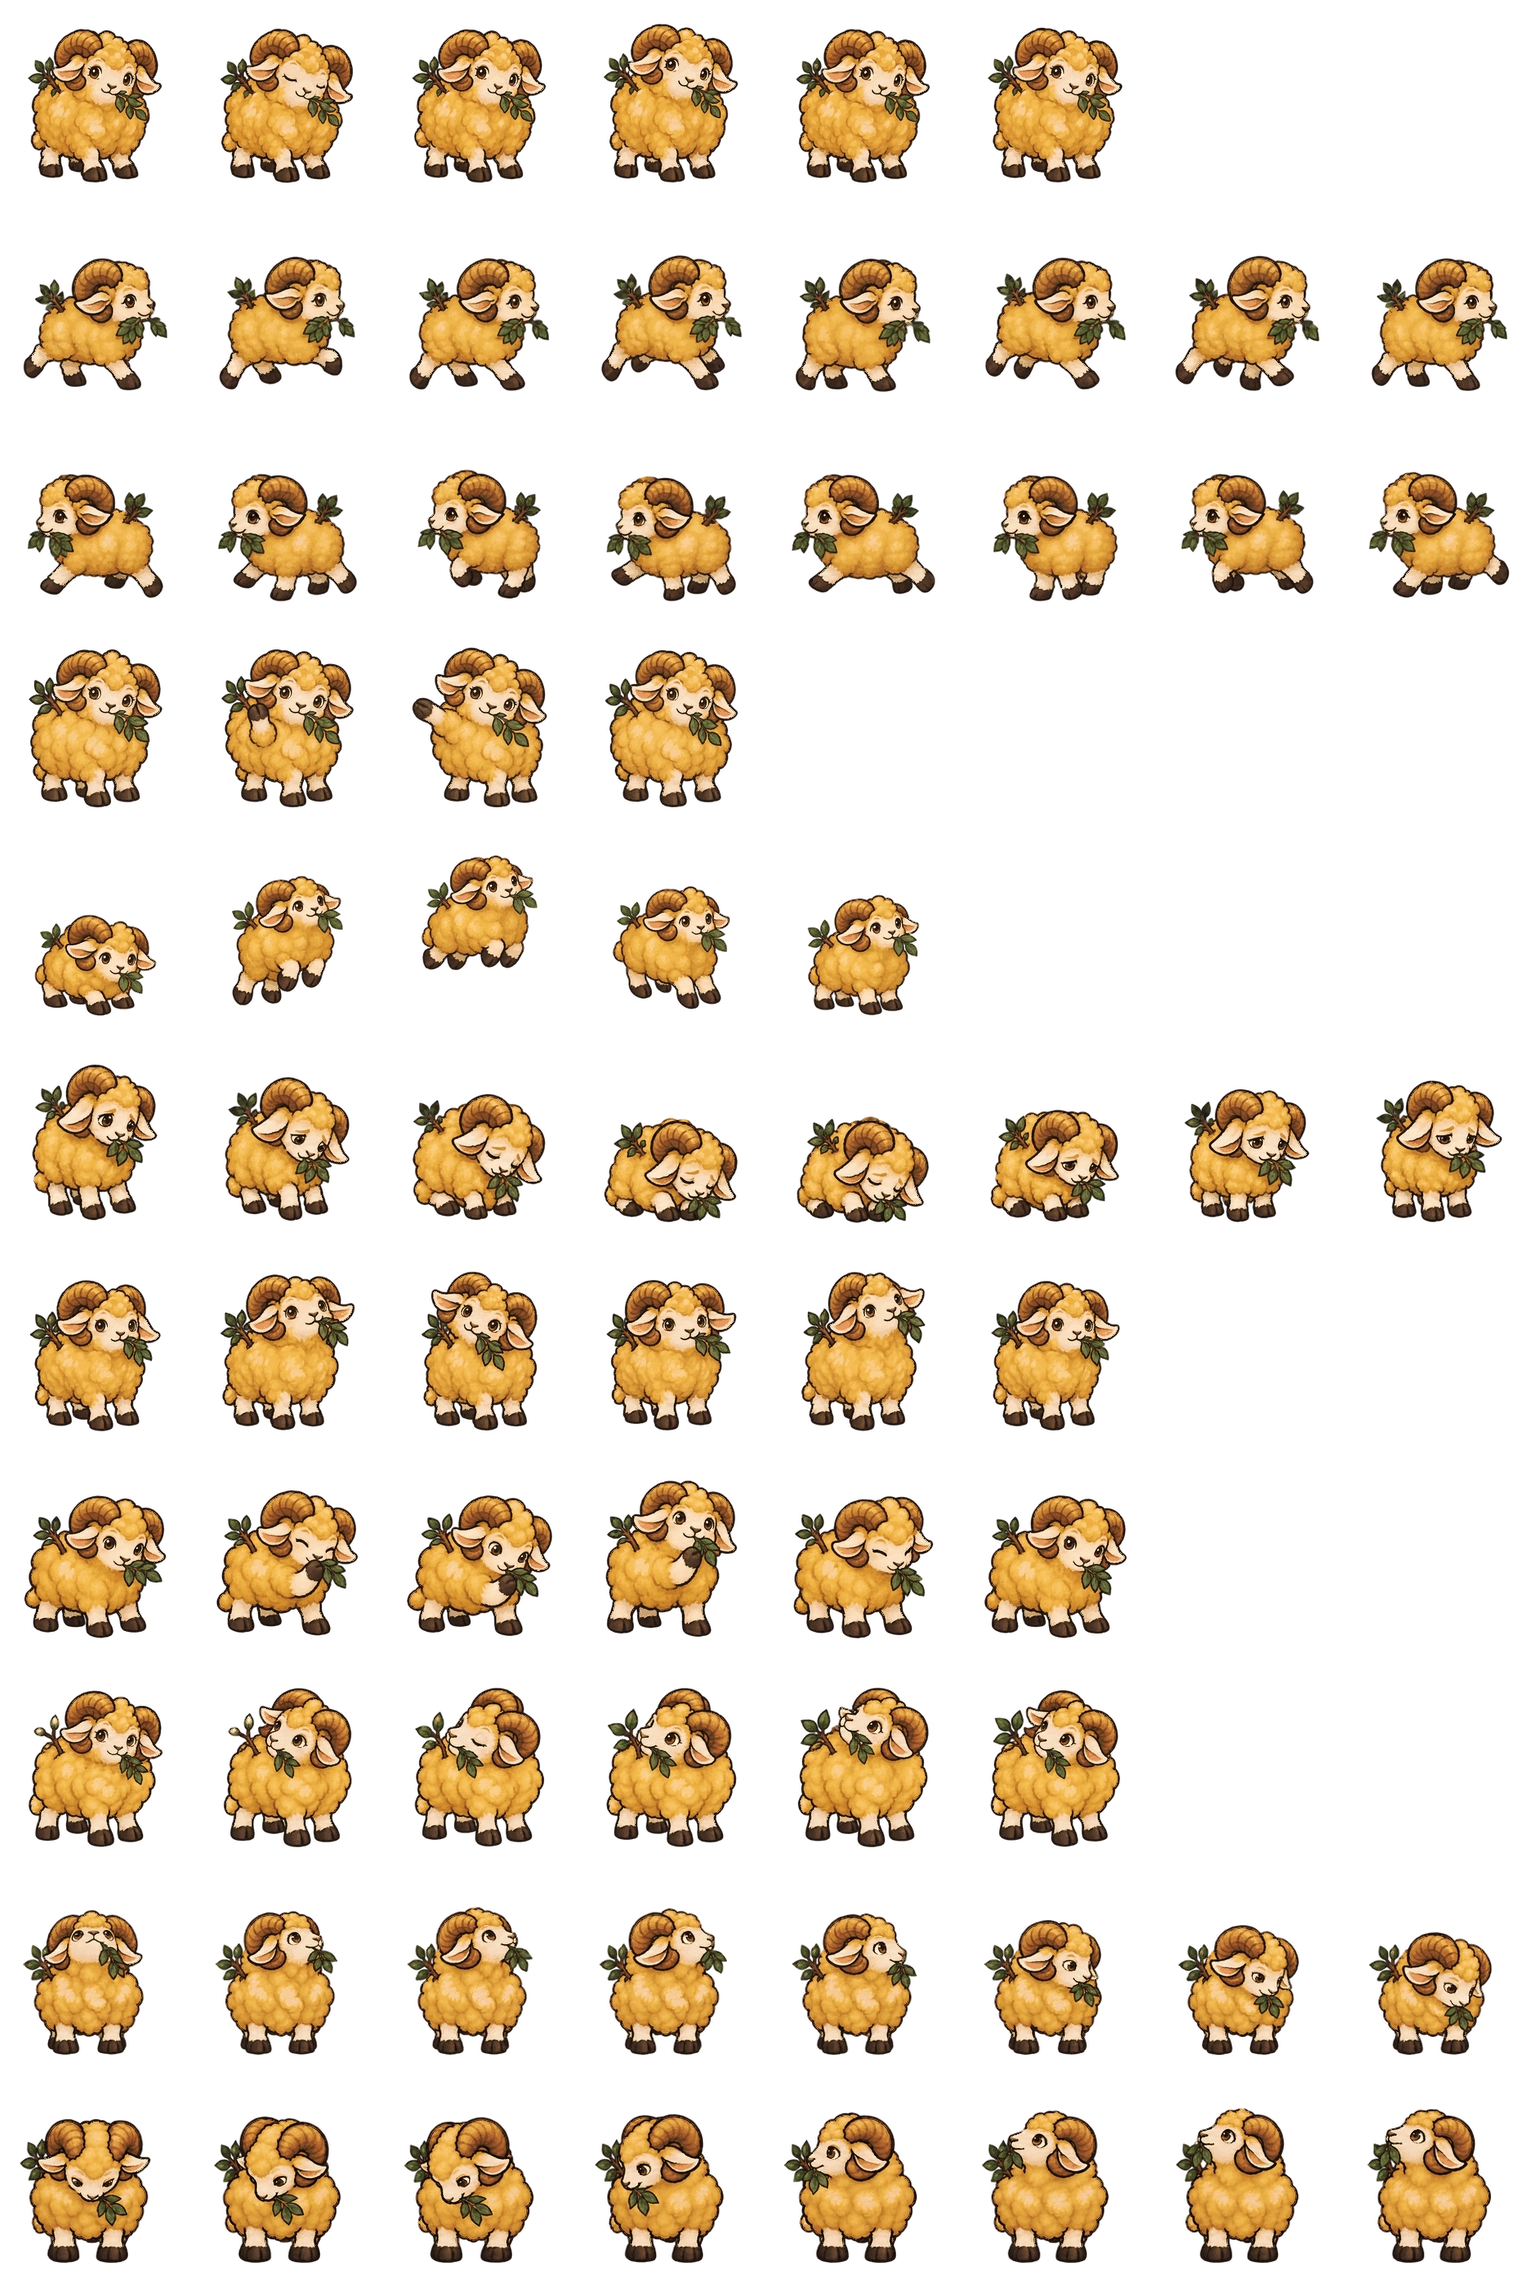
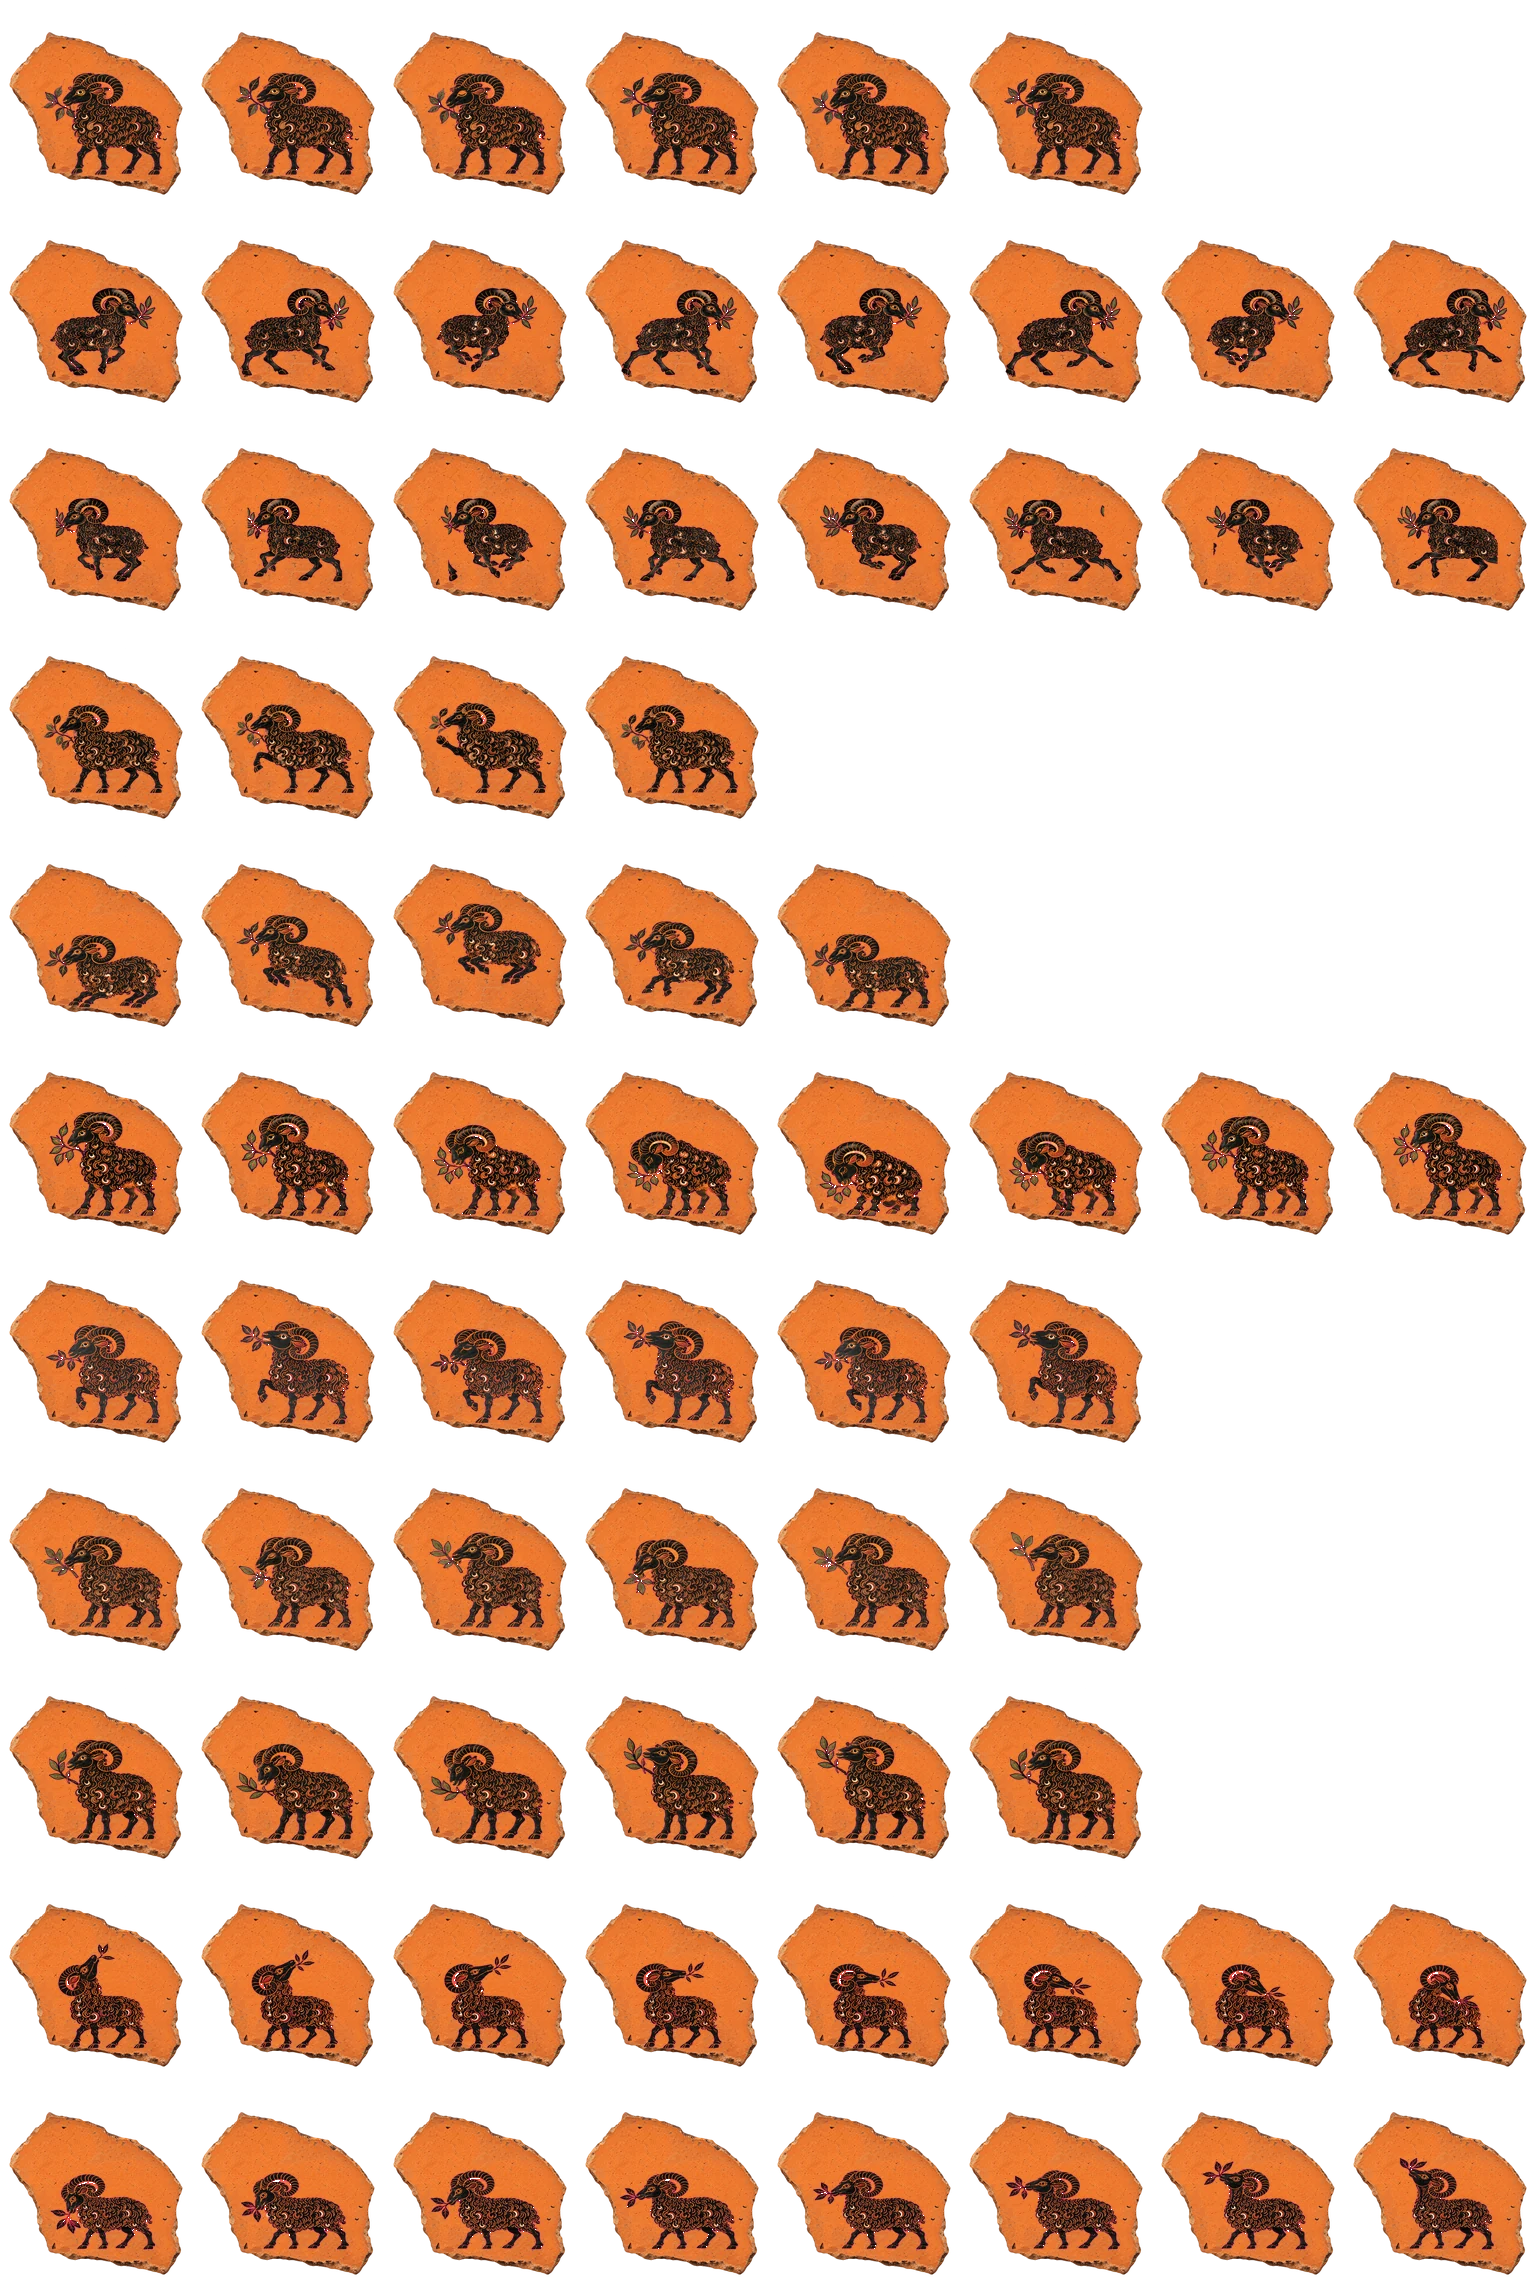
Pets: Medea redrawn [skip ci]
Medea followed as archaic Greek black-figure painting on a potsherd; the shard never moves, only the ram (Paul's rule). Paul signed off the sheet ("sign off"). Lossy WebP q88, 665,758 bytes, alpha bit-identical (mean error 6.2/255); the 25 sheets total 19,085,966 bytes. pet-metrics.json and the making-of golden regenerated.

diff --git a/docs/marginarium-pets.md b/docs/marginarium-pets.md
@@ -179,14 +179,15 @@ waving cells at native size and 5x, on white and dark, showed no banding, halo o
[4 lines of base64/hex data omitted]
 
 The Glassblower's redraw (Paul: "Both good") replaced the factory's droplet the same day: a
 clearer drop with a curling tip and a warm light inside. Niko followed, painted the way Pirosmani painted animals: house paint on black oilcloth, the black
 left showing as his patches, a crescent and stars on his shoulder (Paul: "Grounding them in the actual
 techniques their namesake used is the right method here"). The Moon hatched too: her first drawing was withheld because, a crescent seen side-on, she
 couldn't turn to face left; her second, a hand-coloured almanac woodcut (Paul: "The moon one is in
-need of a new drawing"), mirrors her right-facing looks for the left. The Snow Queen followed as Andersen's own paper-cuts: white paper cut from a folded sheet, a snowflake-cut crown, no pins or lace. The twenty-five sheets total
-**19,455,510 bytes (18.55 MiB)** of the 24 MiB budget. Dino's, the Glassblower's and Niko's
+need of a new drawing"), mirrors her right-facing looks for the left. The Snow Queen followed as Andersen's own paper-cuts: white paper cut from a folded sheet, a snowflake-cut crown, no pins or lace. Medea followed as archaic Greek black-figure painting on a potsherd; the shard never moves, only the ram (Paul's rule). The twenty-five sheets total
+**19,085,966 bytes (18.20 MiB)** of the 24 MiB budget. Dino's, the Glassblower's and Niko's
 first sheets, in the table above, no longer ship. The new ones fill more of their cells than the
 factory's nineteen (top 6 and foot 201 in `pet-metrics.json`, as the Baba Yaga's already did),
 so they stand a little larger beside them.
